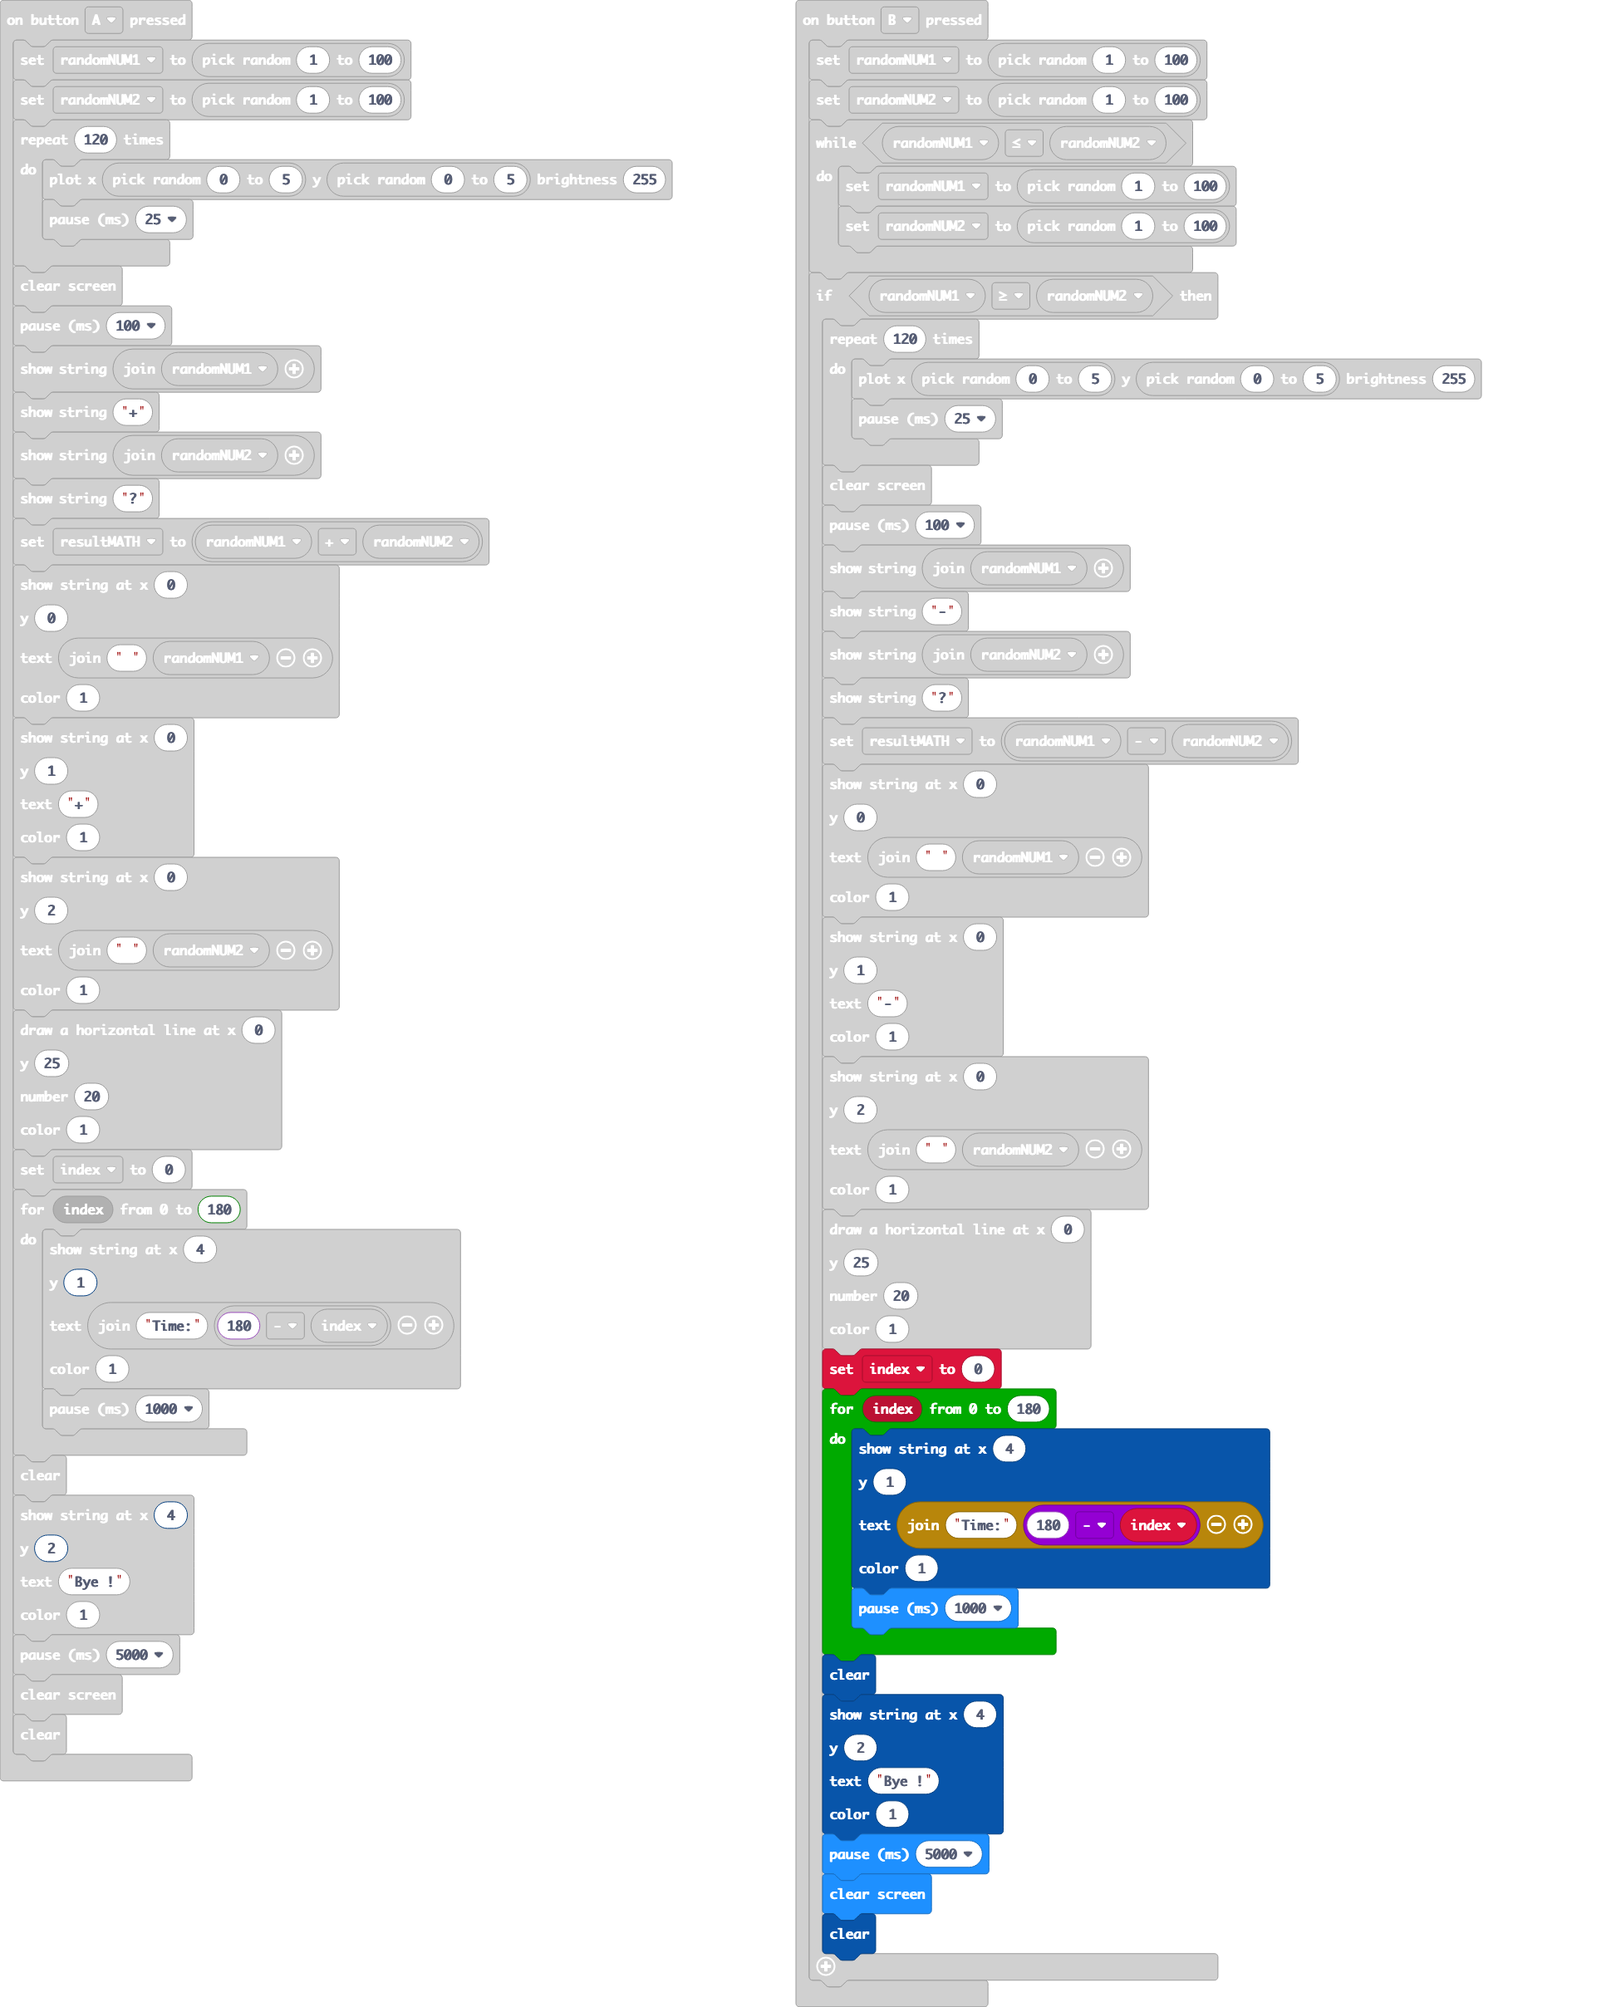
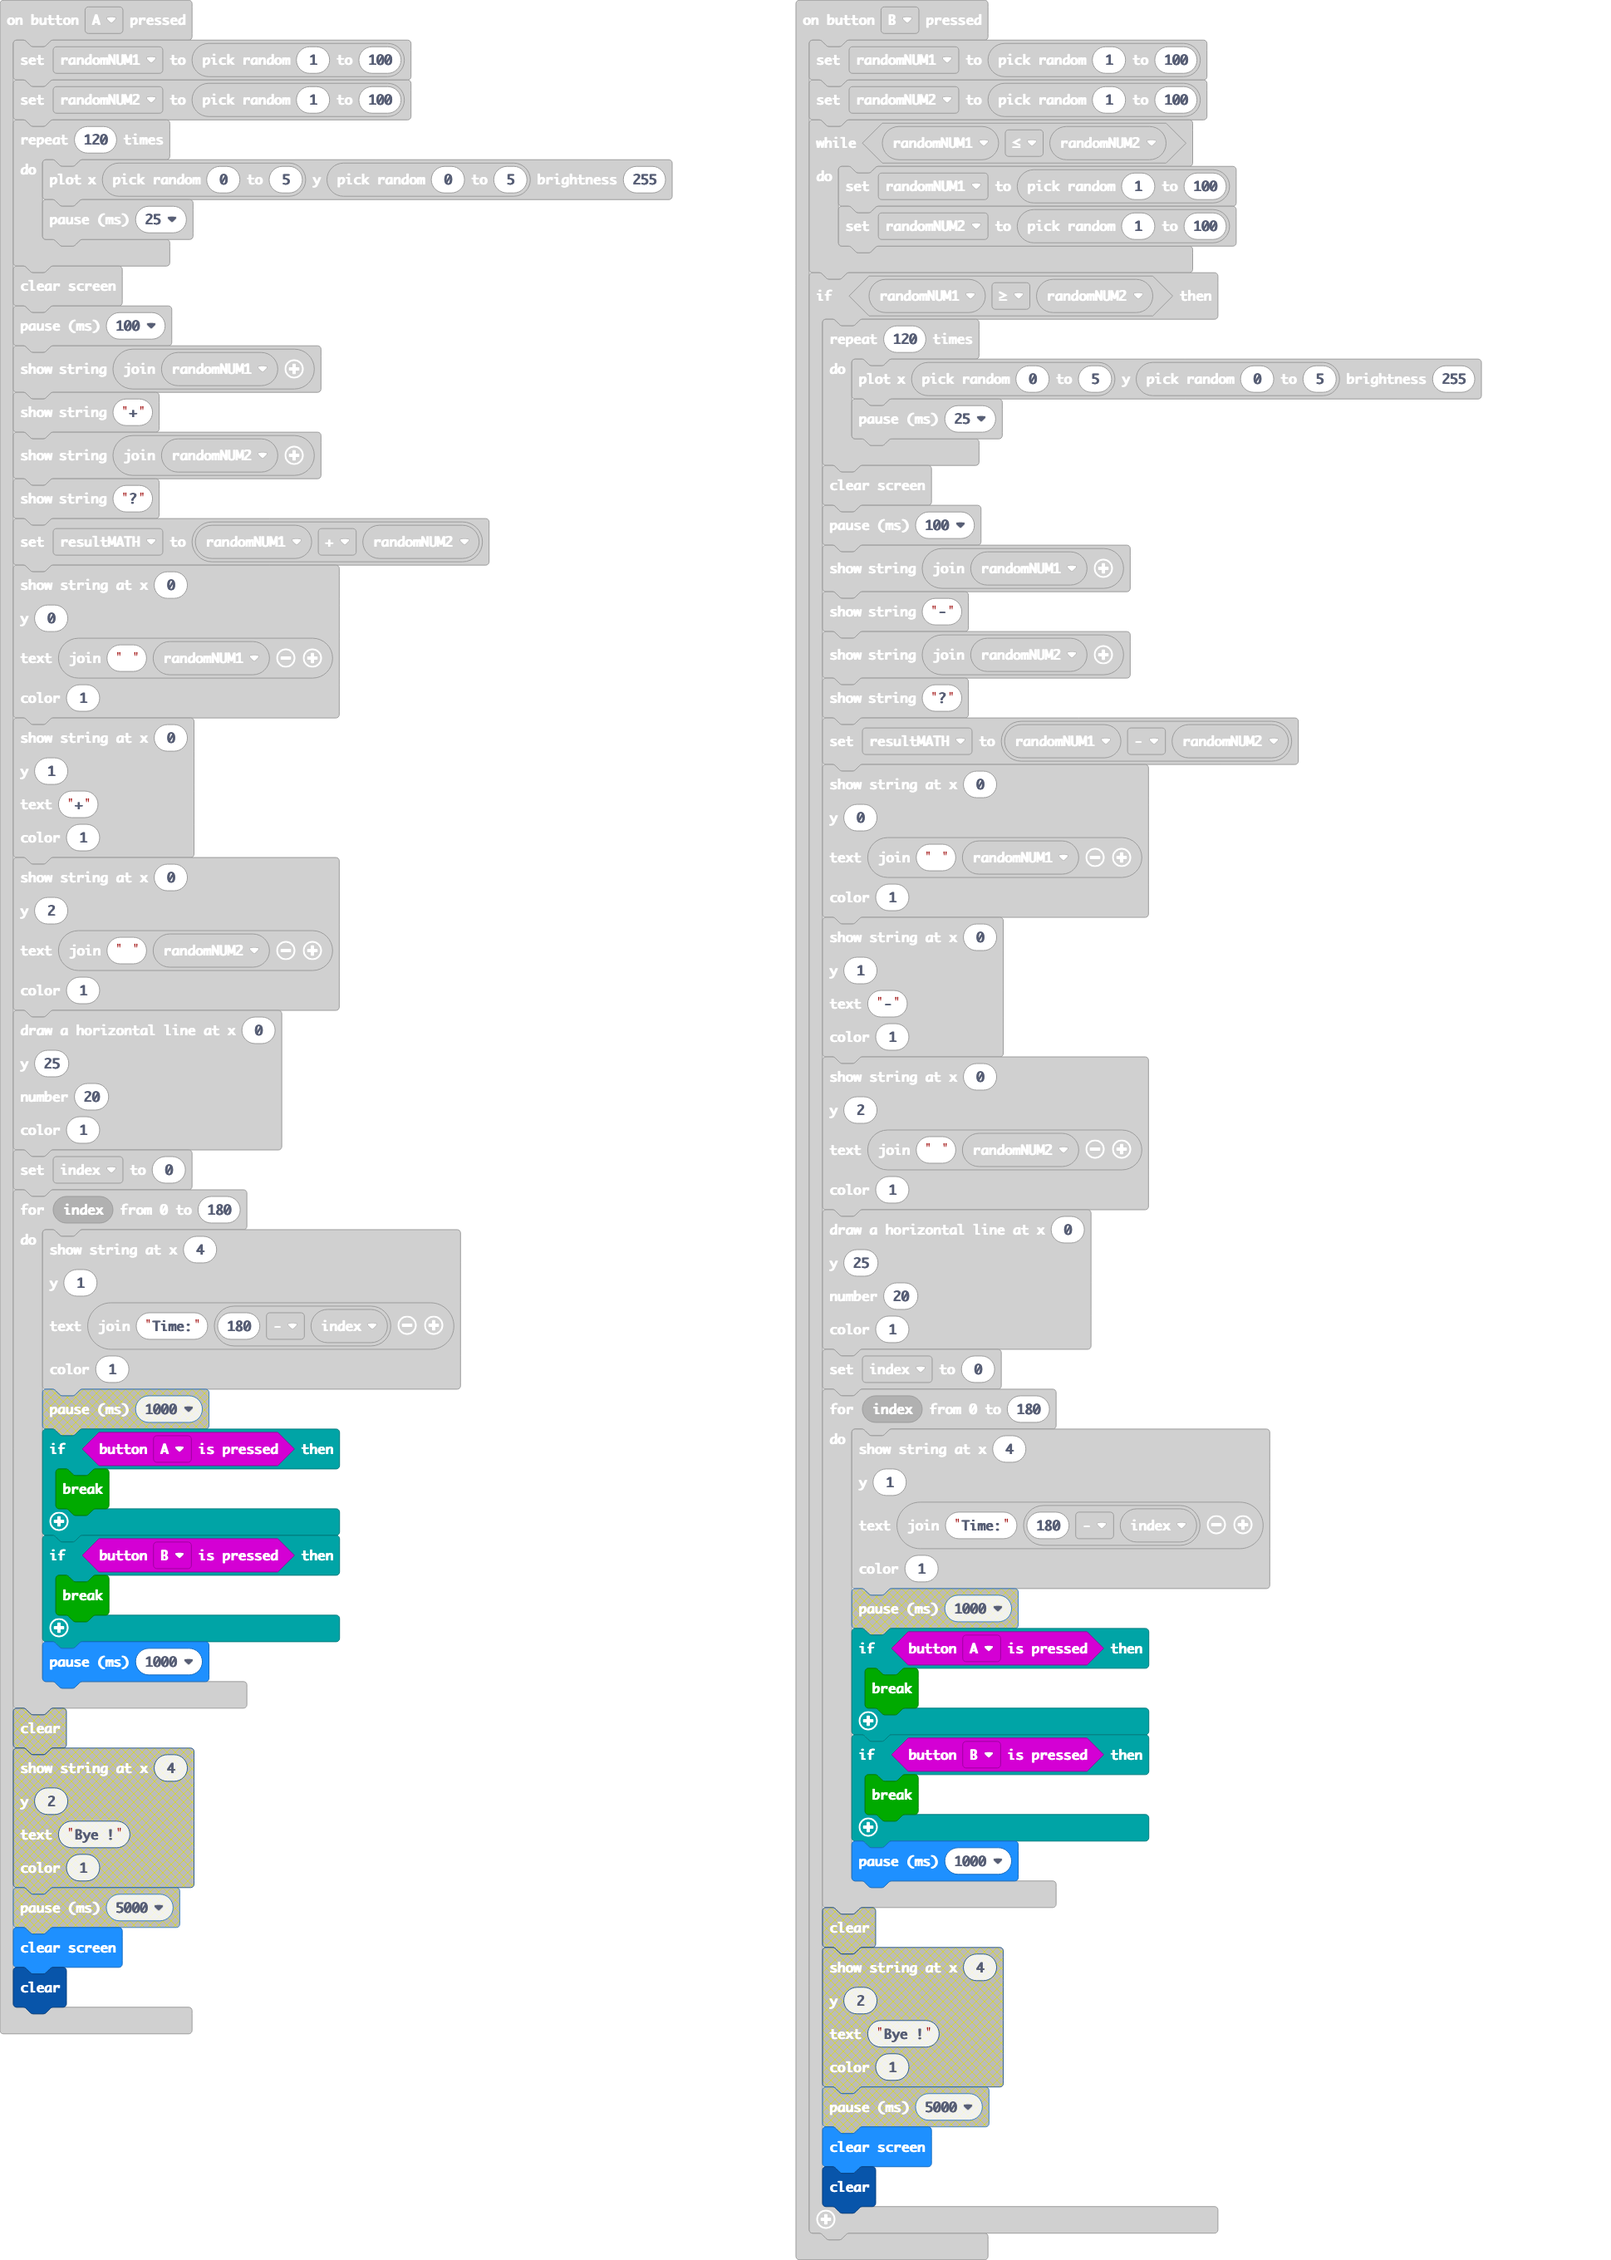
Update main.blocks, main.ts

Changed region(s): [[0.4951, 0.0, 0.9283, 0.9934], [0.0, 0.0, 0.4332, 0.9002]]

diff --git a/main.ts b/main.ts
@@ -103,16 +103,14 @@ input.onButtonPressed(Button.A, function () {
         "Time:" + (180 - index),
         1
         )
+        if (input.buttonIsPressed(Button.A)) {
+            break;
+        }
+        if (input.buttonIsPressed(Button.B)) {
+            break;
+        }
         basic.pause(1000)
     }
-    OLED12864_I2C.clear()
-    OLED12864_I2C.showString(
-    4,
-    2,
-    "Bye !",
-    1
-    )
-    basic.pause(5000)
     basic.clearScreen()
     OLED12864_I2C.clear()
 })
@@ -167,16 +165,14 @@ input.onButtonPressed(Button.B, function () {
             "Time:" + (180 - index),
             1
             )
+            if (input.buttonIsPressed(Button.A)) {
+                break;
+            }
+            if (input.buttonIsPressed(Button.B)) {
+                break;
+            }
             basic.pause(1000)
         }
-        OLED12864_I2C.clear()
-        OLED12864_I2C.showString(
-        4,
-        2,
-        "Bye !",
-        1
-        )
-        basic.pause(5000)
         basic.clearScreen()
         OLED12864_I2C.clear()
     }
